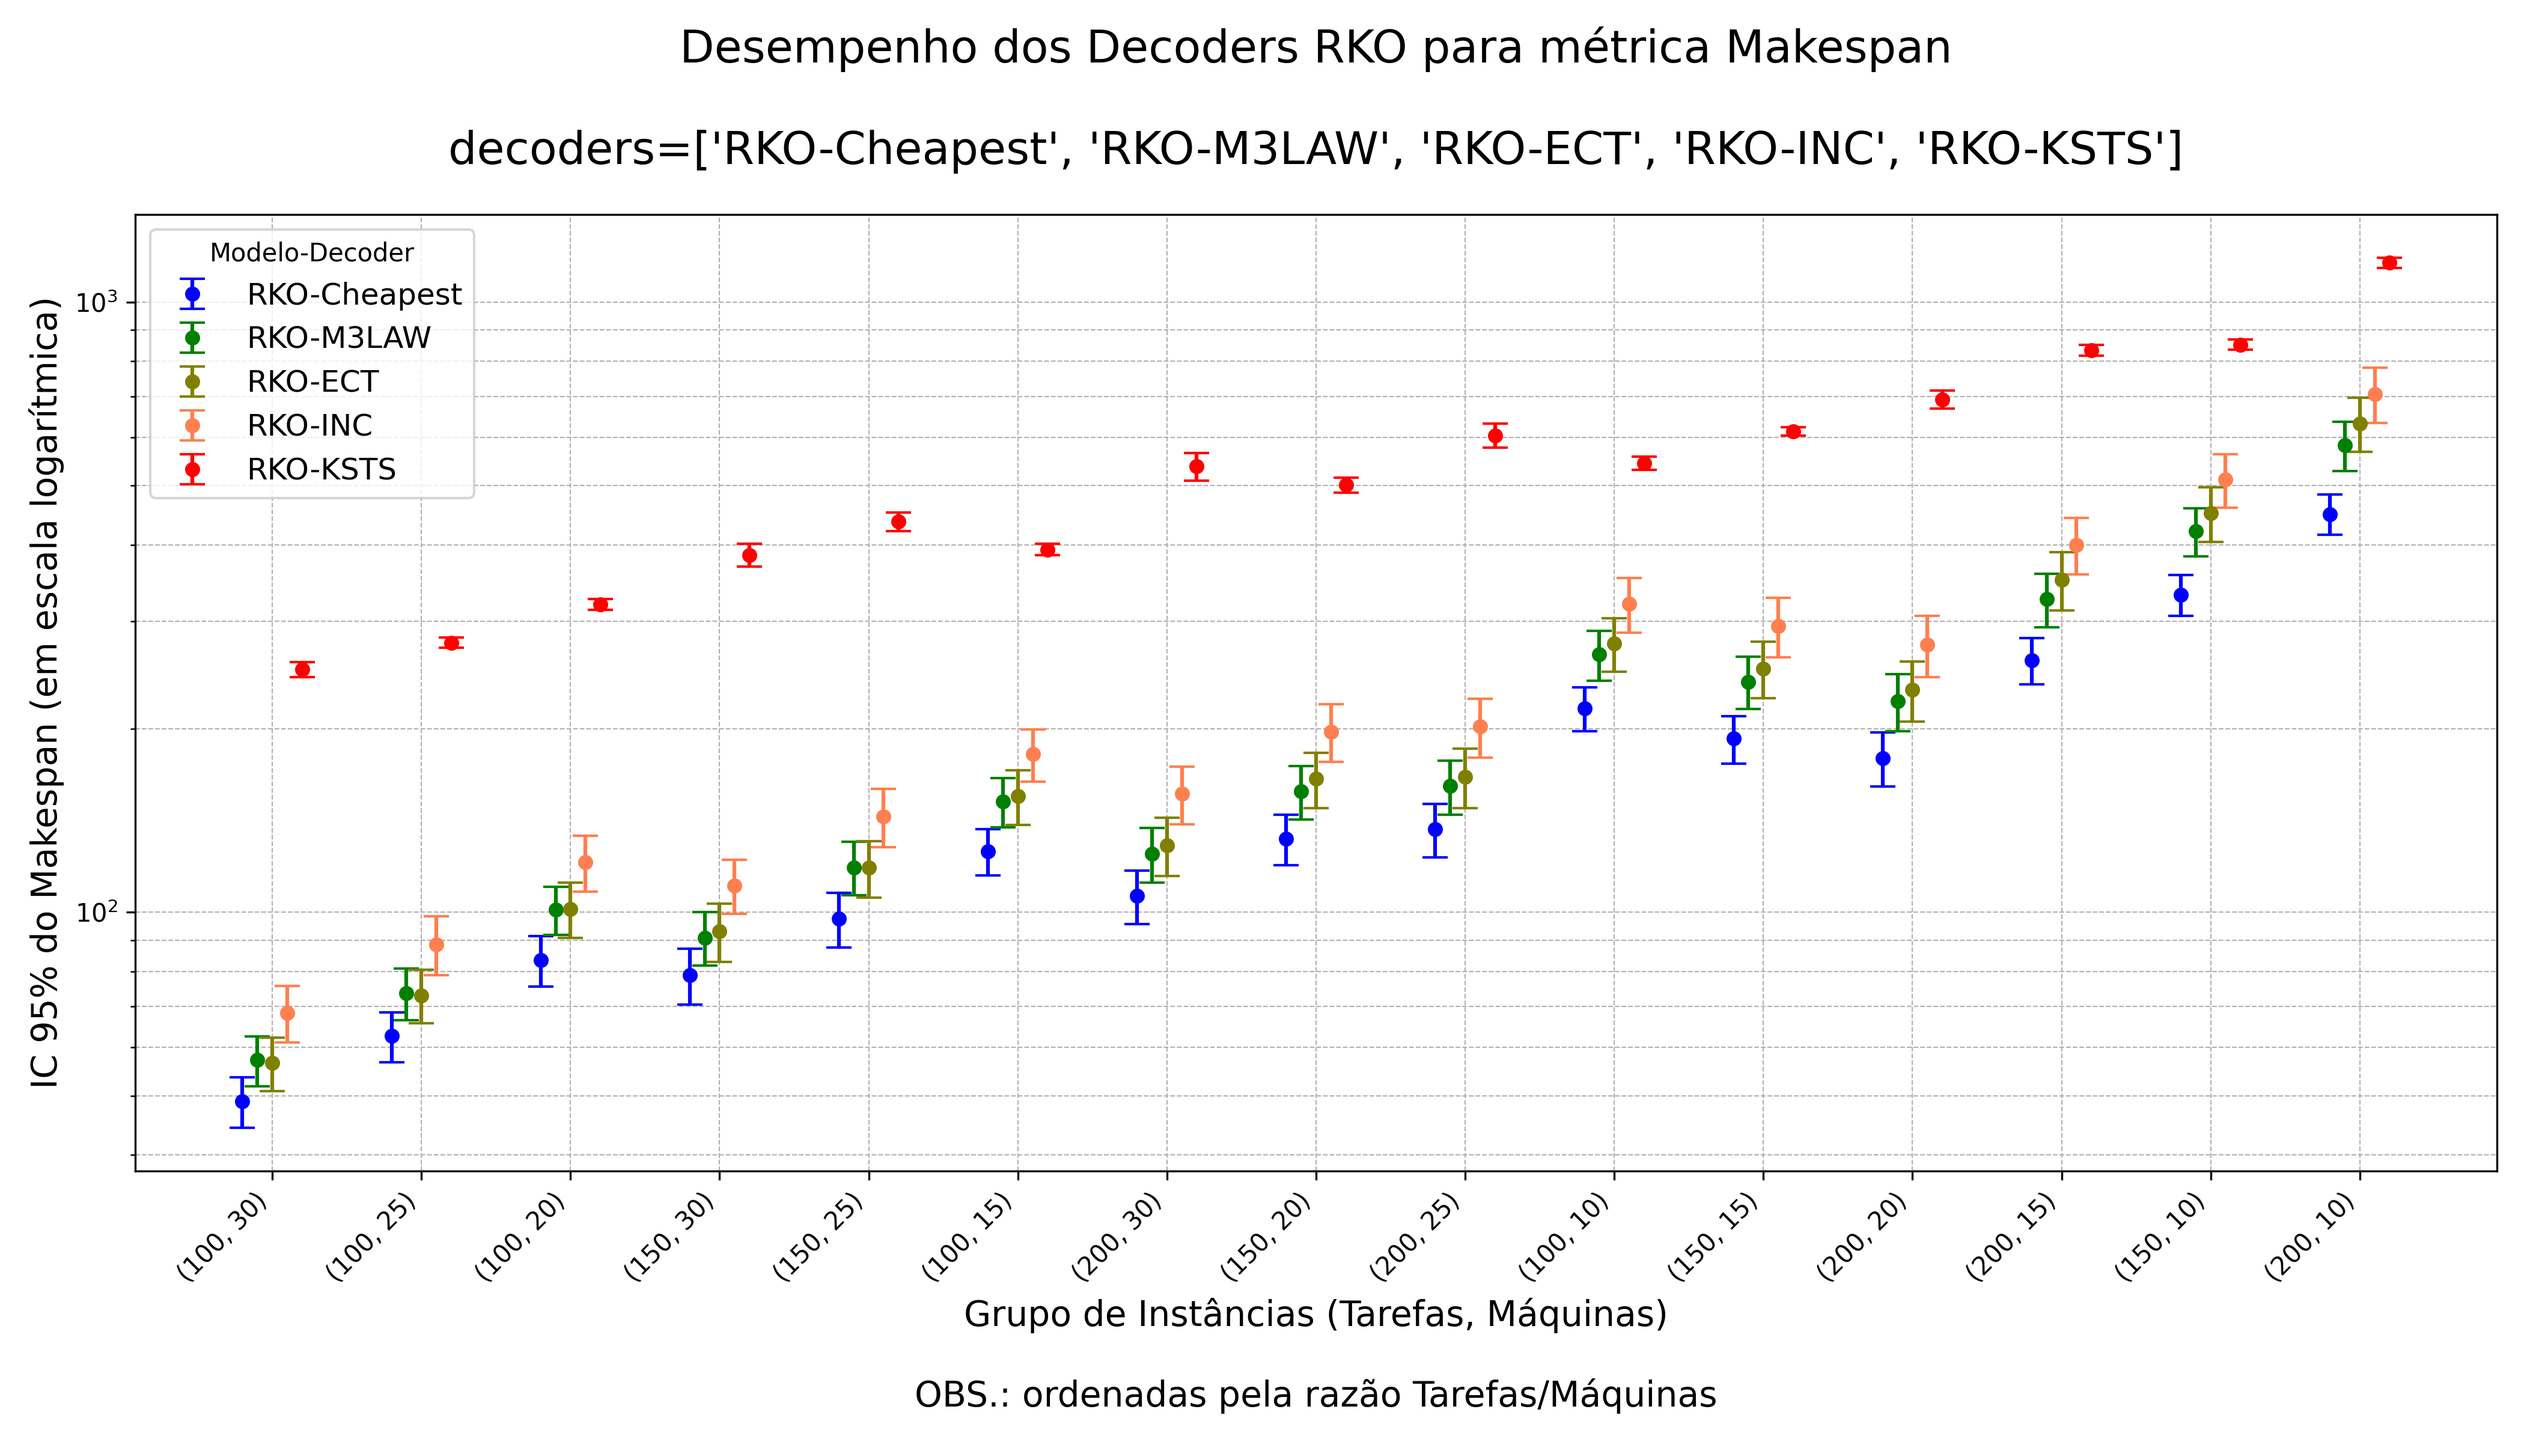
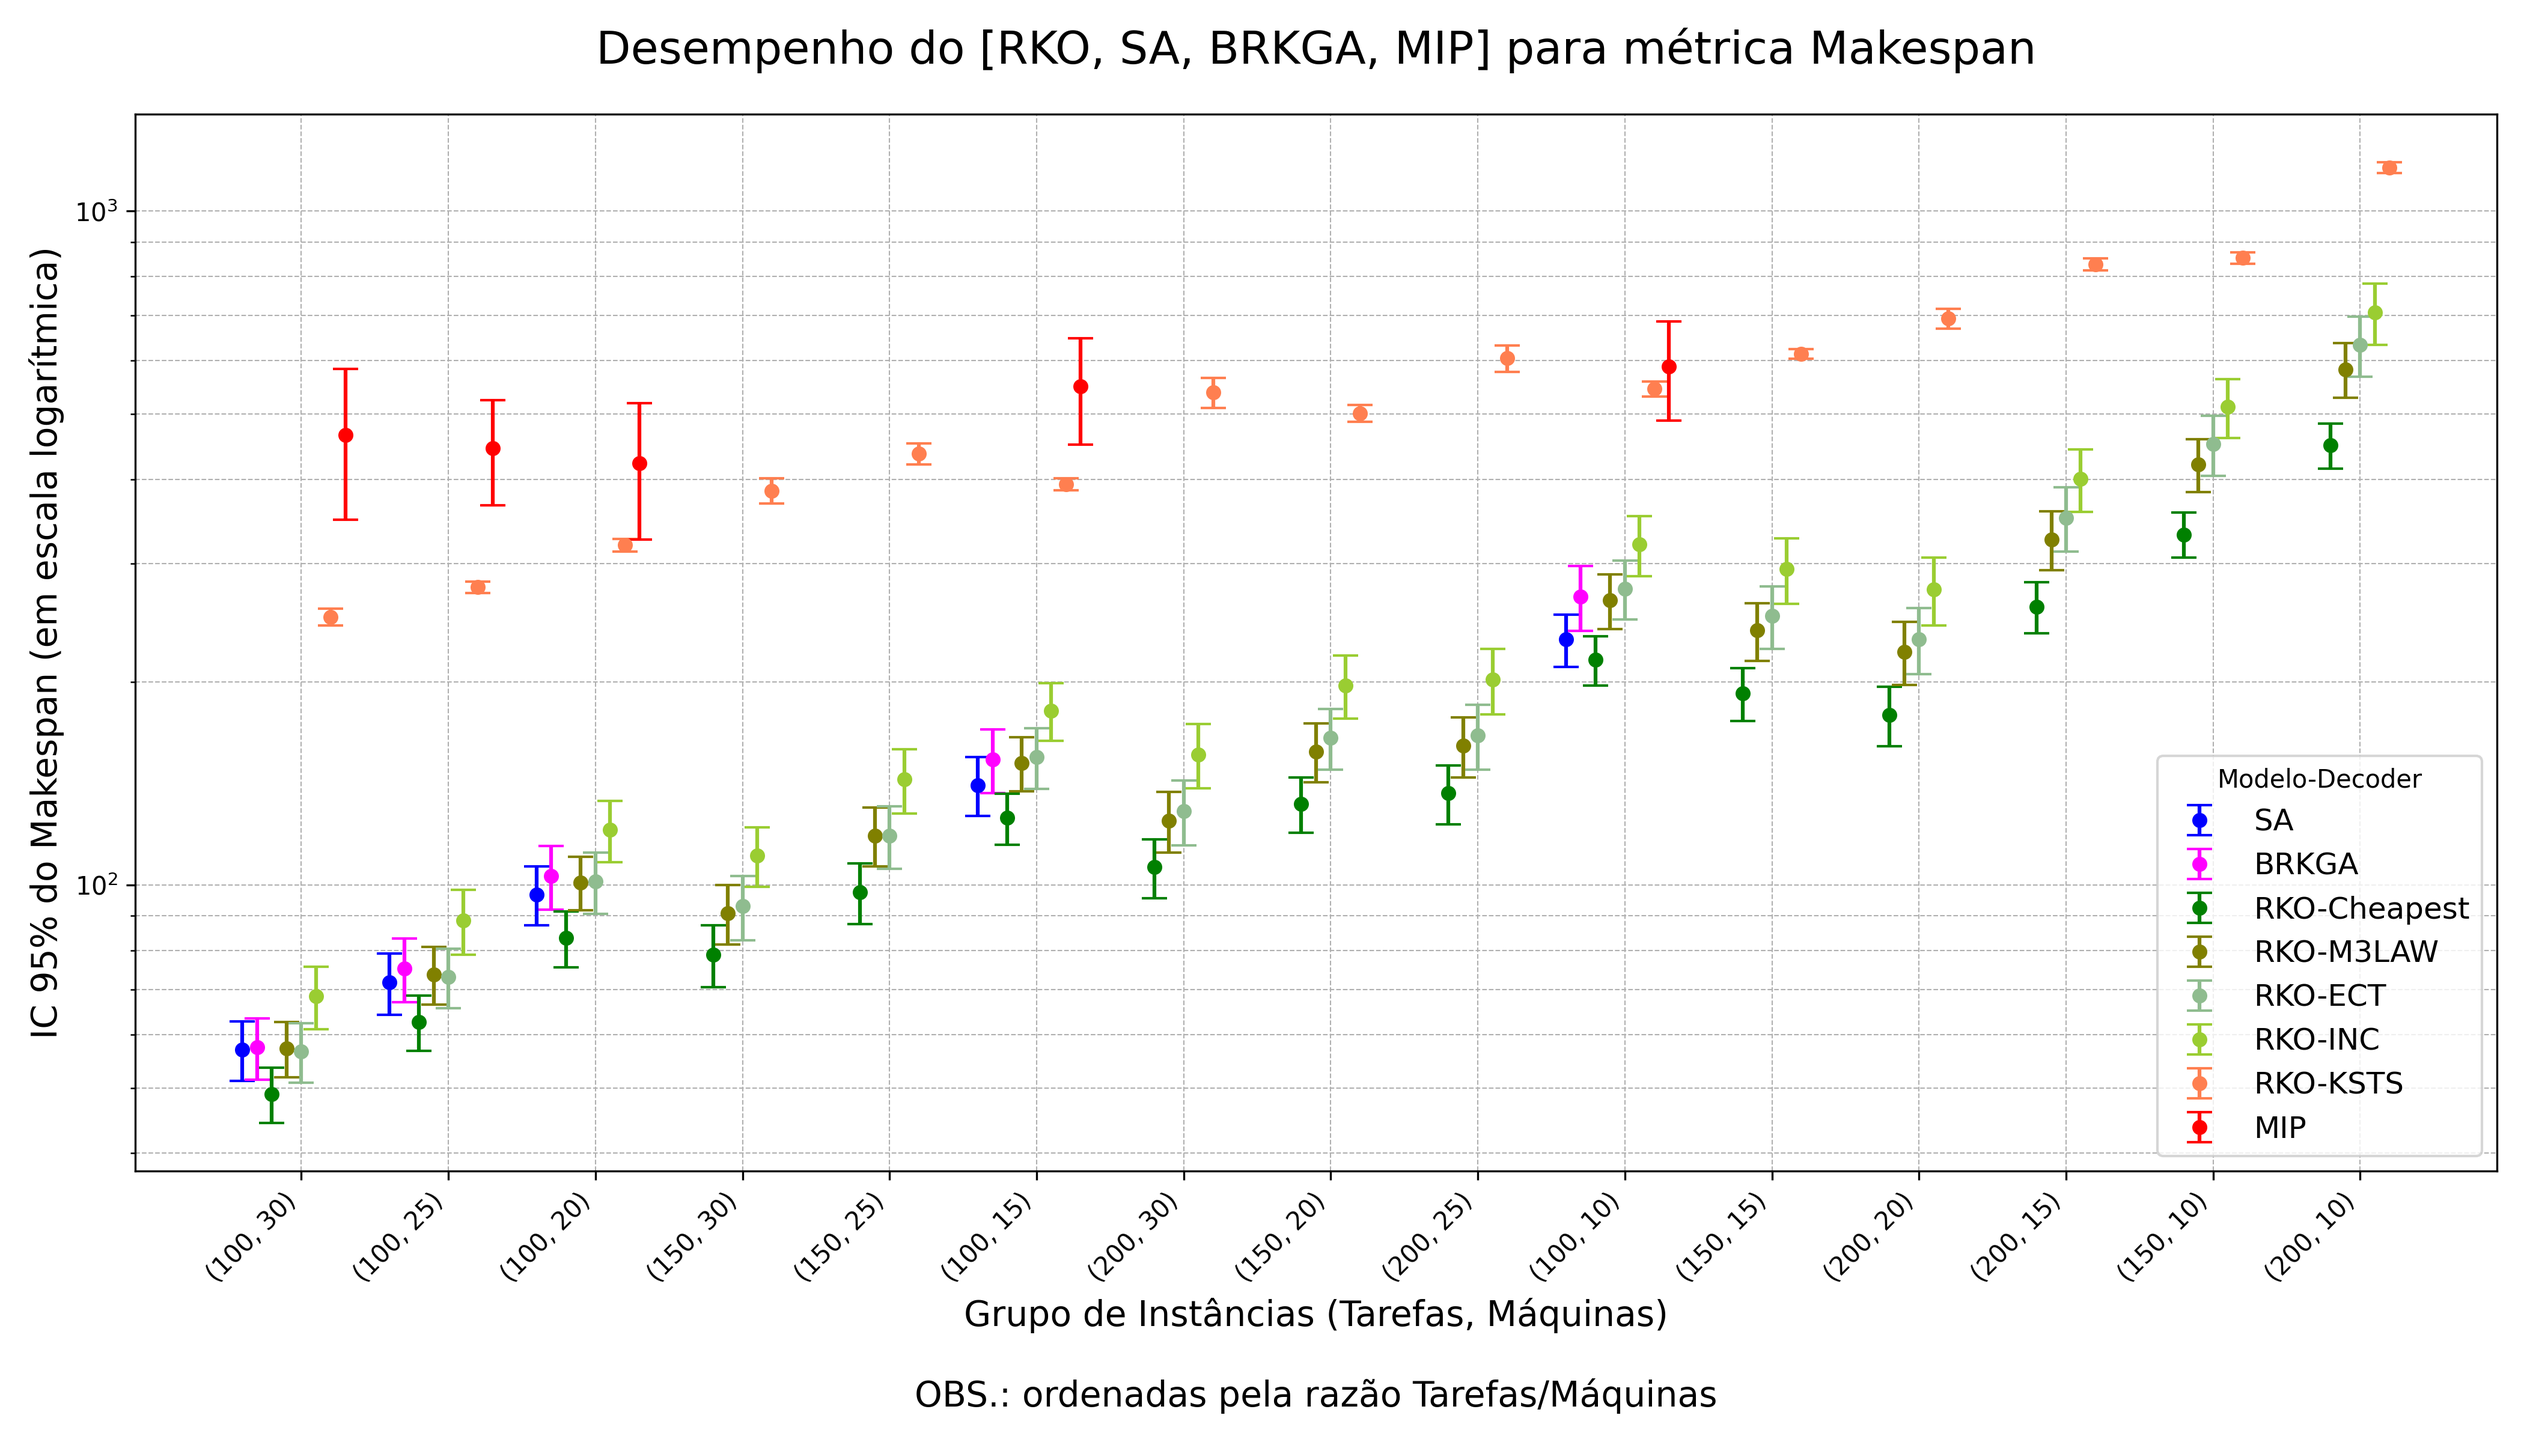
Gráficos RKO vs SA, BRKGA e MIP - Atualização de legendas e agrupamento por razão

diff --git a/exp/results/graficos/ic-objective-grupos_plot.py b/exp/results/graficos/ic-objective-grupos_plot.py
@@ -18,7 +18,10 @@ df['ERRO'] = (df['IC_SUPERIOR_95'] - df['IC_INFERIOR_95']) / 2
 
 # --- ALTERAÇÃO: Nova Estratégia de Agrupamento ---
 # Agrupa arredondando a razão para o 0.5 mais próximo.
-df['RATIO_GROUP'] = (df['JOBS'] / df['MACHINES'] * 2).round() / 2
+# df['RATIO_GROUP'] = (df['JOBS'] / df['MACHINES'] * 2).round() / 2
+
+# Agrupa arredondando a razão para o 1.0 mais próximo.
+df['RATIO_GROUP'] = (df['JOBS'] / df['MACHINES']).round()
 
 df['RATIO_GROUP'] = df['RATIO_GROUP'].clip(upper=20) ## arredonda tudo acima de 20 para 20
 
@@ -48,9 +51,16 @@ axes = axes.flatten()
 # --- 3. Plotagem Iterativa em cada Subfigura ---
 
 # Define as cores e o offset para cada modelo
-model_colors =  {'RKO-Cheapest': 'blue',   'RKO-M3LAW': 'green',    'RKO-ECT': 'olive',   'RKO-INC': 'coral',  'RKO-KSTS': 'red'}
-model_offsets = {'RKO-Cheapest': -0.2, 'RKO-M3LAW': -0.1, 'RKO-ECT': 0, 'RKO-INC': 0.1, 'RKO-KSTS': 0.2}
-models = ['RKO-Cheapest', 'RKO-M3LAW', 'RKO-ECT', 'RKO-INC', 'RKO-KSTS']
+
+## APENAS os RKO-Decoders 
+# model_colors =  {'RKO-Cheapest': 'blue',   'RKO-M3LAW': 'green',    'RKO-ECT': 'olive',   'RKO-INC': 'coral',  'RKO-KSTS': 'red'}
+# model_offsets = {'RKO-Cheapest': -0.2, 'RKO-M3LAW': -0.1, 'RKO-ECT': 0, 'RKO-INC': 0.1, 'RKO-KSTS': 0.2}
+# models = ['RKO-Cheapest', 'RKO-M3LAW', 'RKO-ECT', 'RKO-INC', 'RKO-KSTS']
+
+## MIP, SA, BRKGA e RKO-Decoders
+model_colors =  {'SA': 'blue', 'BRKGA': 'magenta', 'RKO-Cheapest': 'green',   'RKO-M3LAW': 'olive',    'RKO-ECT': 'darkseagreen',   'RKO-INC': 'yellowgreen' }#,  'RKO-KSTS': 'coral' , 'MIP': 'red'}
+model_offsets = {'SA': -0.4, 'BRKGA': -0.3, 'RKO-Cheapest': -0.2, 'RKO-M3LAW': -0.1, 'RKO-ECT': 0, 'RKO-INC': 0.1 }#, 'RKO-KSTS': 0.2 , 'MIP': 0.3}
+models = ['SA', 'BRKGA', 'RKO-Cheapest', 'RKO-M3LAW', 'RKO-ECT', 'RKO-INC'] #, 'RKO-KSTS' , 'MIP']
 
 for i, group_val in enumerate(ratio_groups):
     ax = axes[i]
@@ -85,9 +95,9 @@ for i in range(n_groups, len(axes)):
 
 handles, labels = ax.get_legend_handles_labels()
 # fig.legend(handles, labels, loc='upper center', bbox_to_anchor=(0.5, 0.98), ncol=3, title='Modelo', fontsize=12)
-fig.legend(handles, labels, loc='lower right', bbox_to_anchor=(1, 0), ncol=3, title='Modelo-Decoder', fontsize=12)
+fig.legend(handles, labels, loc='lower right', bbox_to_anchor=(1, 0), ncol=3, title='Modelo', fontsize=12)
 
-fig.suptitle(f'Desempenho dos Decoders RKO para métrica Makespan\n\ndecoders={models}', fontsize=18)
+fig.suptitle(f'Desempenho do [RKO, SA, BRKGA, MIP] para métrica Makespan', fontsize=18)
 
 
 fig.supxlabel('Configuração (Jobs, Machines)', fontsize=14, y=0.02)
@@ -95,7 +105,7 @@ fig.supylabel('IC 95%: Objective', fontsize=14, x=0.04)
 
 fig.tight_layout(rect=[0.05, 0.05, 1, 0.94])
 
-plt.savefig('grafico_subplots_por_razao_0.5.png', dpi=300)
+plt.savefig('grafico_subplots_por_razao.png', dpi=300)
 plt.show()
 
-print("\nGráfico com nova estratégia de agrupamento salvo como 'grafico_subplots_por_razao_0.5.png'")
+print("\nGráfico com nova estratégia de agrupamento salvo como 'grafico_subplots_por_razao.png'")

diff --git a/exp/results/graficos/ic-objective-razaoJobMachine_plot.py b/exp/results/graficos/ic-objective-razaoJobMachine_plot.py
@@ -30,9 +30,16 @@ x_labels = [f'({row.JOBS}, {row.MACHINES})' for index, row in unique_configs.ite
 x_ticks = np.arange(len(x_labels))
 
 # Define as cores e o offset para cada modelo
-model_colors =  {'RKO-Cheapest': 'blue',   'RKO-M3LAW': 'green',    'RKO-ECT': 'olive',   'RKO-INC': 'coral',  'RKO-KSTS': 'red'}
-model_offsets = {'RKO-Cheapest': -0.2, 'RKO-M3LAW': -0.1, 'RKO-ECT': 0, 'RKO-INC': 0.1, 'RKO-KSTS': 0.2}
-models = ['RKO-Cheapest', 'RKO-M3LAW', 'RKO-ECT', 'RKO-INC', 'RKO-KSTS']
+
+## APENAS os RKO-Decoders 
+# model_colors =  {'RKO-Cheapest': 'blue',   'RKO-M3LAW': 'green',    'RKO-ECT': 'olive',   'RKO-INC': 'coral',  'RKO-KSTS': 'red'}
+# model_offsets = {'RKO-Cheapest': -0.2, 'RKO-M3LAW': -0.1, 'RKO-ECT': 0, 'RKO-INC': 0.1, 'RKO-KSTS': 0.2}
+# models = ['RKO-Cheapest', 'RKO-M3LAW', 'RKO-ECT', 'RKO-INC', 'RKO-KSTS']
+
+## MIP, SA, BRKGA e RKO-Decoders
+model_colors =  {'SA': 'blue', 'BRKGA': 'magenta', 'RKO-Cheapest': 'green',   'RKO-M3LAW': 'olive',    'RKO-ECT': 'darkseagreen',   'RKO-INC': 'yellowgreen',  'RKO-KSTS': 'coral', 'MIP': 'red'}
+model_offsets = {'SA': -0.4, 'BRKGA': -0.3, 'RKO-Cheapest': -0.2, 'RKO-M3LAW': -0.1, 'RKO-ECT': 0, 'RKO-INC': 0.1, 'RKO-KSTS': 0.2, 'MIP': 0.3}
+models = ['SA', 'BRKGA', 'RKO-Cheapest', 'RKO-M3LAW', 'RKO-ECT', 'RKO-INC', 'RKO-KSTS', 'MIP']
 
 # Cria a figura e os eixos do gráfico (agora apenas um)
 # Aumentamos bastante a largura para acomodar todos os pontos
@@ -67,7 +74,8 @@ for model in models:
 
 # --- 4. Customização e Exibição ---
 
-ax.set_title(f'Desempenho dos Decoders RKO para métrica Makespan\n\ndecoders={models}', fontsize=18, pad=20)
+# ax.set_title(f'Desempenho dos Decoders RKO para métrica Makespan\n\ndecoders={models}', fontsize=18, pad=20)
+ax.set_title('Desempenho do [RKO, SA, BRKGA, MIP] para métrica Makespan', fontsize=18, pad=20)
 ax.set_ylabel('IC 95% do Makespan (em escala logarítmica)', fontsize=14)
 ax.set_xlabel('Grupo de Instâncias (Tarefas, Máquinas)\n\nOBS.: ordenadas pela razão Tarefas/Máquinas', fontsize=14)
 
@@ -86,7 +94,7 @@ ax.set_yscale('log')
 ax.set_xticks(x_ticks)
 ax.set_xticklabels(x_labels, rotation=45, ha='right')
 
-ax.legend(title='Modelo-Decoder', fontsize=12)
+ax.legend(title='Modelo', fontsize=12)
 ax.grid(True, which='both', linestyle='--', linewidth=0.5)
 fig.tight_layout()
 
